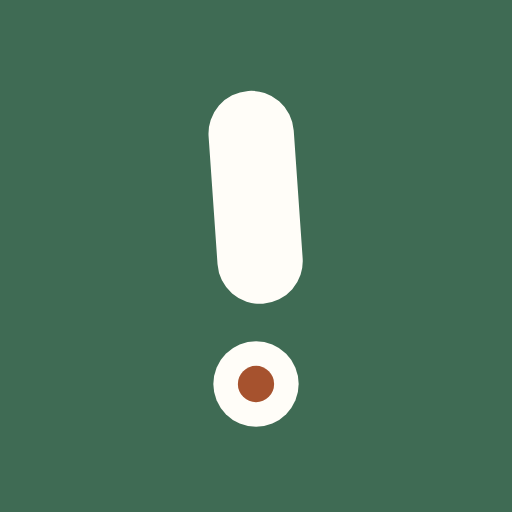
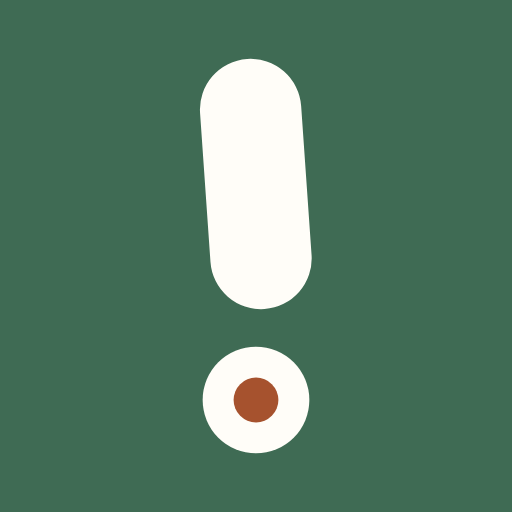
brand: bolder quest mark, legible at a glance
The bar and pin head now fill ~80 percent of the tile instead of ~55,
so the mark reads clearly at favicon size. Masters, png exports, and
all three component glyphs updated together.

Claude-Session: https://claude.ai/code/session_01W25Z51DMZzunTxhCJwTx3t

Changed region(s): [[0.375, 0.0938, 0.625, 0.625], [0.375, 0.6875, 0.625, 0.9062], [0.4375, 0.6562, 0.5625, 0.6875]]

diff --git a/frontend/src/components/landing/landing-page.tsx b/frontend/src/components/landing/landing-page.tsx
@@ -21,11 +21,11 @@ function BrandMark() {
     <div className="qb-land-topbar">
       <span className="qb-land-tile">
         <svg viewBox="0 0 16 16" fill="none" aria-hidden="true">
-          <g transform="rotate(-4 8 6.3)">
-            <rect x="6.6" y="2.8" width="2.8" height="6.7" rx="1.4" fill="#FFFDF8" />
+          <g transform="rotate(-4 8 5.8)">
+            <rect x="6.35" y="1.9" width="3.3" height="7.8" rx="1.65" fill="#FFFDF8" />
           </g>
-          <circle cx="8" cy="12" r="1.7" fill="#FFFDF8" />
-          <circle cx="8" cy="12" r="0.75" fill="#A6522E" />
+          <circle cx="8" cy="12.5" r="1.95" fill="#FFFDF8" />
+          <circle cx="8" cy="12.5" r="0.85" fill="#A6522E" />
         </svg>
       </span>
       <b>Questboard</b>

diff --git a/frontend/src/components/shared/brand-mark.tsx b/frontend/src/components/shared/brand-mark.tsx
@@ -7,11 +7,11 @@
 export function BrandMark({ className }: { className?: string }) {
   return (
     <svg viewBox="0 0 16 16" fill="none" className={className} aria-hidden="true">
-      <g transform="rotate(-4 8 6.3)">
-        <rect x="6.6" y="2.8" width="2.8" height="6.7" rx="1.4" fill="currentColor" />
+      <g transform="rotate(-4 8 5.8)">
+        <rect x="6.35" y="1.9" width="3.3" height="7.8" rx="1.65" fill="currentColor" />
       </g>
-      <circle cx="8" cy="12" r="1.7" fill="currentColor" />
-      <circle cx="8" cy="12" r="0.75" fill="#A6522E" />
+      <circle cx="8" cy="12.5" r="1.95" fill="currentColor" />
+      <circle cx="8" cy="12.5" r="0.85" fill="#A6522E" />
     </svg>
   );
 }

diff --git a/frontend/src/components/shell/app-shell.tsx b/frontend/src/components/shell/app-shell.tsx
@@ -57,11 +57,11 @@ function BrandTile() {
   return (
     <span className="qb-brand-tile">
       <svg viewBox="0 0 16 16" fill="none" aria-hidden="true">
-        <g transform="rotate(-4 8 6.3)">
-          <rect x="6.6" y="2.8" width="2.8" height="6.7" rx="1.4" fill="#FFFDF8" />
+        <g transform="rotate(-4 8 5.8)">
+          <rect x="6.35" y="1.9" width="3.3" height="7.8" rx="1.65" fill="#FFFDF8" />
         </g>
-        <circle cx="8" cy="12" r="1.7" fill="#FFFDF8" />
-        <circle cx="8" cy="12" r="0.75" fill="#A6522E" />
+        <circle cx="8" cy="12.5" r="1.95" fill="#FFFDF8" />
+        <circle cx="8" cy="12.5" r="0.85" fill="#A6522E" />
       </svg>
     </span>
   );
